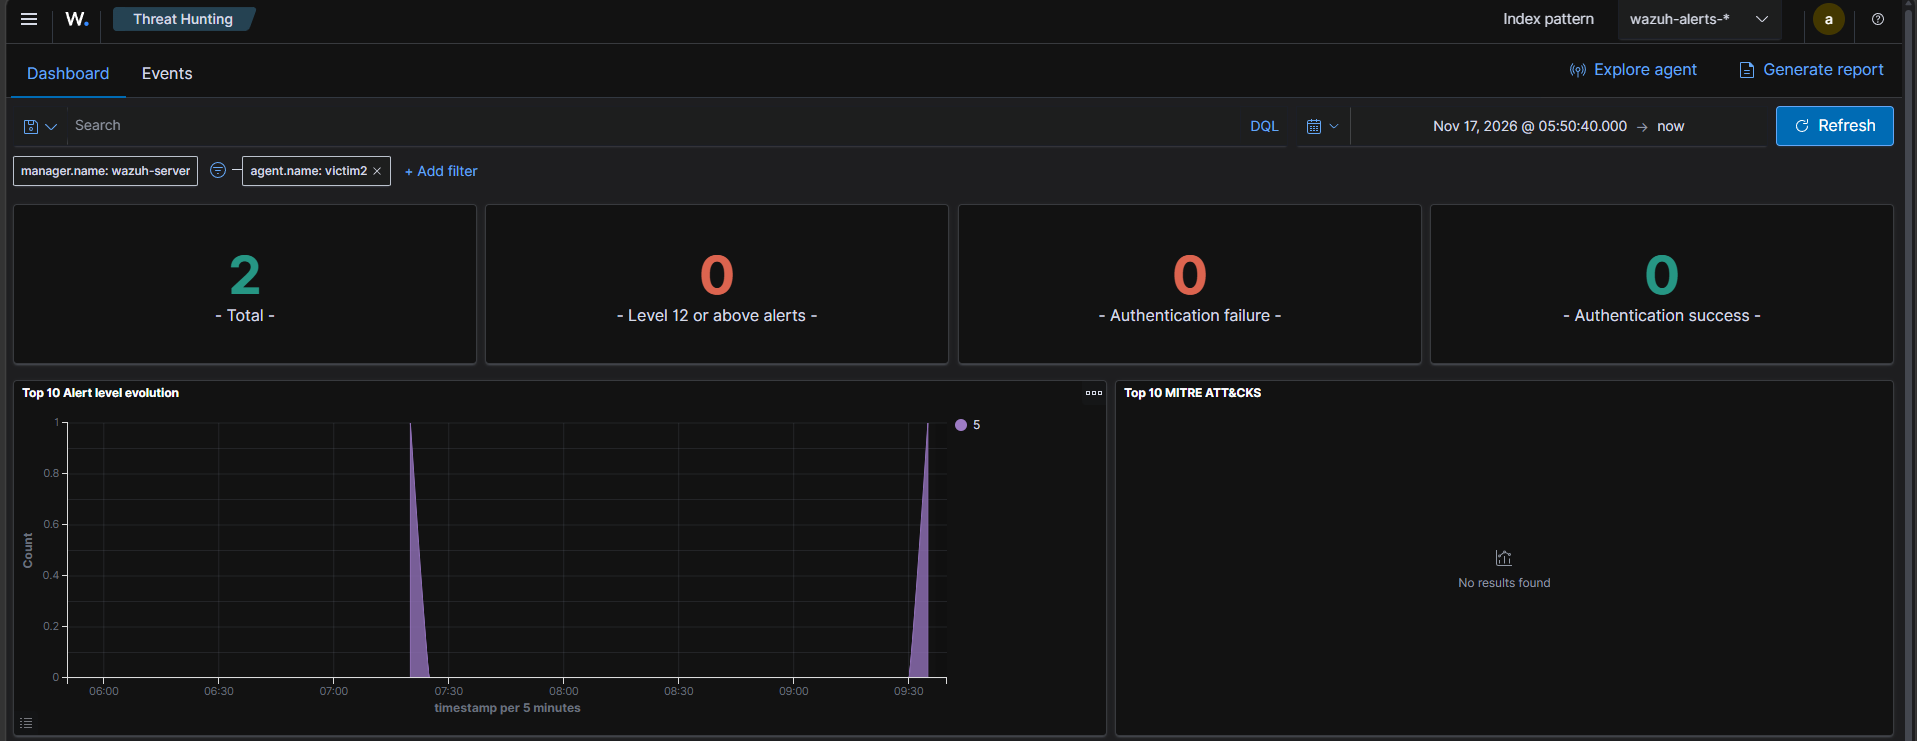
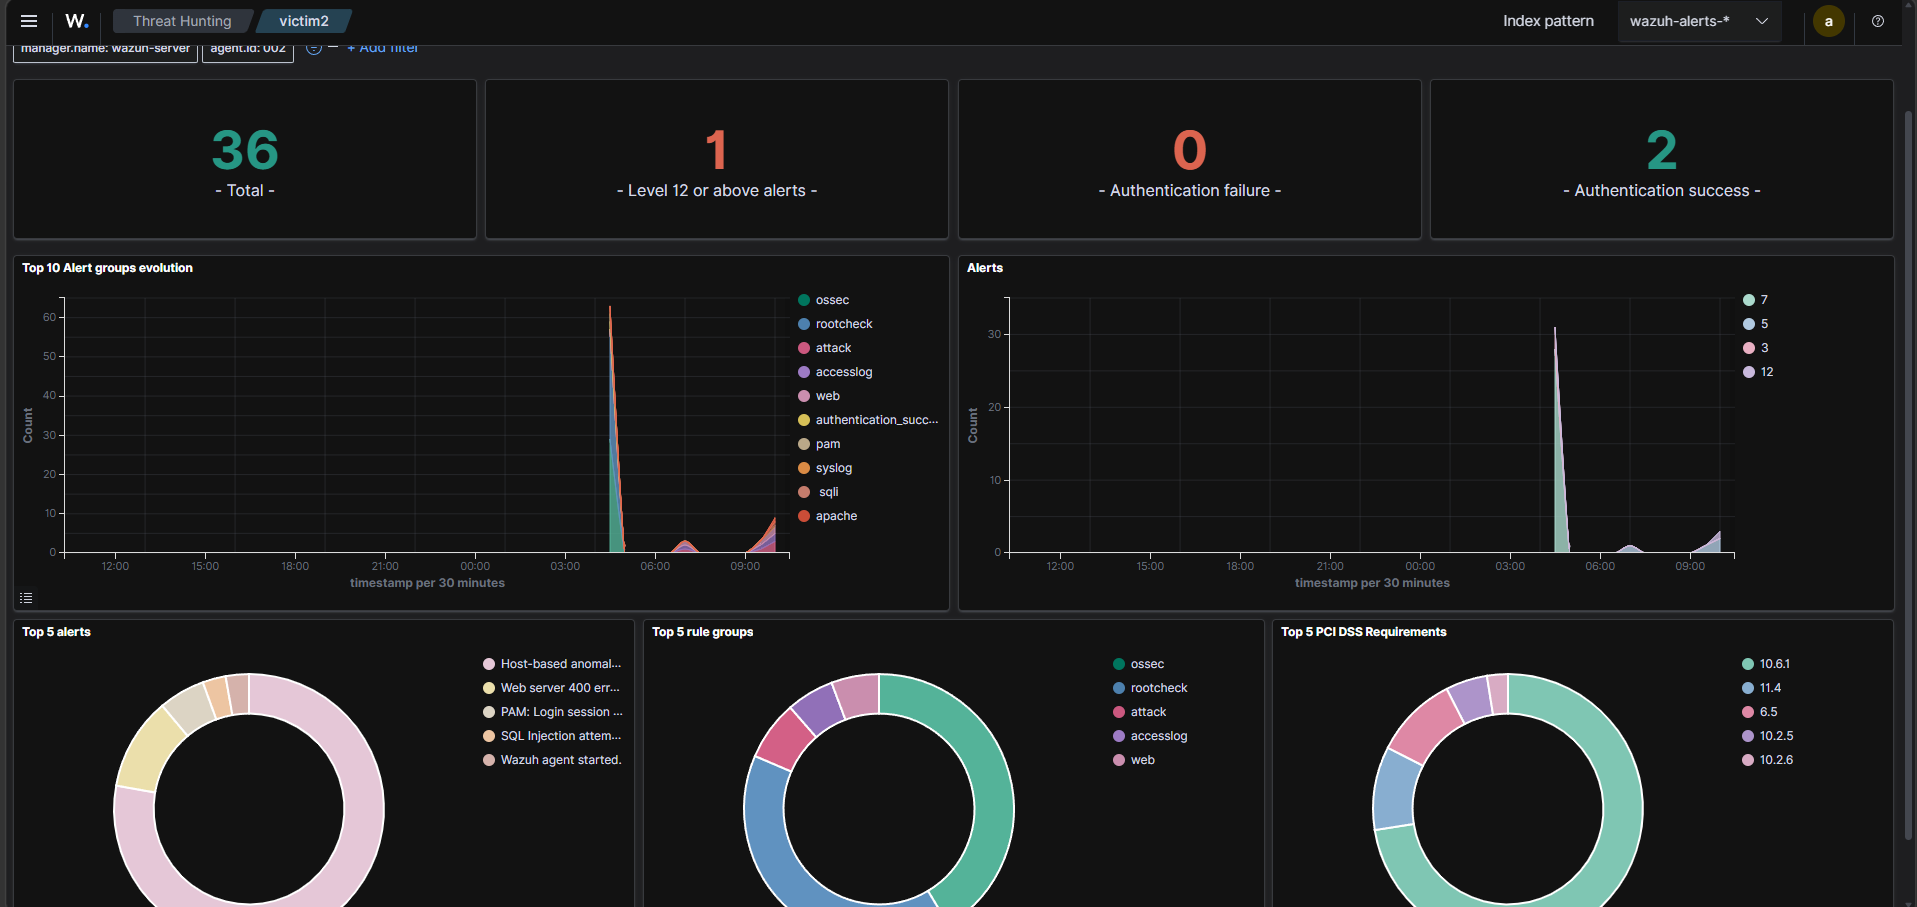
feat: add SQL injection attack detection scenario and Wazuh HIDS evidence

diff --git a/03_Wazuh_SOC/attack-scenarios/scenario_2/02_SQL_Injection_HIDS_Detection.md b/03_Wazuh_SOC/attack-scenarios/scenario_2/02_SQL_Injection_HIDS_Detection.md
@@ -1,18 +1,18 @@
 # Scénario 2 : Attaque Web Applicative (SQL Injection) et Détection HIDS
 
 ![Status](https://img.shields.io/badge/Status-Validé-brightgreen)
-![Severity](https://img.shields.io/badge/Wazuh_Level-5-orange)
+![Severity](https://img.shields.io/badge/Wazuh_Level-12-red)
 ![MITRE](https://img.shields.io/badge/MITRE_ATT%26CK-T1190-blue)
 
 ##  Résumé exécutif
 
 | | |
 |---|---|
-| **Objectif** | Valider la stratégie de Defense-in-Depth : démontrer que lorsqu'une attaque applicative (L7) traverse le pare-feu faute d'inspection de contenu, l'agent HIDS Wazuh installé sur l'hôte prend le relais |
+| **Objectif** | Valider la stratégie de Defense-in-Depth : démontrer que lorsqu'une attaque applicative (L7) traverse le pare-feu faute d'inspection de contenu, l'agent HIDS Wazuh prend le relais — puis affiner la détection générique en règle SQLi dédiée à haute sévérité |
 | **Technique MITRE ATT&CK** | [T1190 – Exploit Public-Facing Application](https://attack.mitre.org/techniques/T1190/) |
 | **Attaquant** | Kali Linux — `10.0.10.30` (Zone LAN) |
 | **Cible** | Serveur Web applicatif — `192.16.10.20` (Zone DMZ), agent Wazuh `victim2` |
-| **Résultat** | Attaque **non bloquée** par le réseau, mais **détectée** par le HIDS (Règle `31101`) |
+| **Résultat** | Attaque **non bloquée** par le réseau, **détectée** par le HIDS, puis **qualifiée et priorisée** par une règle de corrélation custom (`100050`, niveau 12) |
 
 ---
 
@@ -52,14 +52,11 @@ curl -s "http://192.16.10.20/vulnerabilities/sqli/?id=1'+OR+1=1--&Submit=Submit"
 
 **Résultat réseau :** la requête traverse le FortiGate sans être bloquée ni journalisée comme suspecte, confirmant l'absence d'inspection L7.
 
-
 ---
 
-## 4. Chaîne de détection et triage SIEM (Wazuh — HIDS)
+## 4. Détection initiale (HIDS générique)
 
-L'attaque ayant atteint le serveur, le payload malformé provoque une erreur applicative. L'agent Wazuh installé localement (`victim2`) lit les journaux Apache (`access.log` / `error.log`) et remonte l'anomalie au Manager.
-
-**Triage dans Wazuh (`Threat Hunting`) :**
+L'attaque ayant atteint le serveur, le payload malformé provoque une erreur applicative. L'agent Wazuh installé localement (`victim2`) lit les journaux Apache (`access.log` / `error.log`) et remonte une première alerte générique au Manager.
 
 | Champ | Valeur observée |
 |---|---|
@@ -67,9 +64,64 @@ L'attaque ayant atteint le serveur, le payload malformé provoque une erreur app
 | **Règle déclenchée** | `31101` |
 | **Description** | *Web server 400 error code.* |
 | **Niveau de sévérité** | `5` |
-| **Source de la détection** | Journaux applicatifs Apache (HIDS), **pas** le FortiGate |
 
-**Résultat :** le réseau n'a pas bloqué la menace, mais la Défense en Profondeur a fonctionné — l'analyste SOC est alerté d'une requête web malformée (signature probable d'injection) ciblant le serveur DMZ, permettant d'engager une réponse à incident.
+**Limite identifiée :** cette règle native ne distingue pas une tentative d'injection d'une simple erreur applicative bénigne (requête malformée, typo utilisateur, bug front-end...). Elle sert uniquement de signal faible.
+
+
+---
+
+## 5. Affinage de la détection — Règle de corrélation SQLi personnalisée
+
+Pour éliminer ce bruit et qualifier précisément la menace, une règle locale a été écrite sur le Wazuh Manager afin de corréler l'erreur HTTP 400 (`31101`) avec la présence de motifs d'injection SQL dans la requête loggée.
+
+**Fichier :** `/var/ossec/etc/rules/local_rules.xml`
+
+```xml
+<group name="apache,sqli,">
+  <!-- Règle de détection SQLi spécifique -->
+  <rule id="100050" level="12">
+    <if_sid>31101</if_sid>
+    <match>SELECT |UNION |INSERT |UPDATE |DELETE |DROP |' OR|'+OR</match>
+    <description>SQL Injection attempt detected in URL (HTTP 400 Error).</description>
+    <mitre>
+      <id>T1190</id>
+    </mitre>
+    <group>attack,sqli,</group>
+  </rule>
+</group>
+```
+
+**Logique de la règle :**
+- `<if_sid>31101</if_sid>` : la règle ne s'évalue que sur les événements déjà classés comme erreur HTTP 400 (règle parente), évitant tout faux positif sur du trafic normal.
+- `<match>` : recherche de motifs SQLi courants dans l'URL loggée (mots-clés SQL, opérateurs d'évasion `OR`, commentaires `--`).
+- **Niveau 12** (contre 5 pour la règle générique) : classe l'alerte en sévérité haute, visible immédiatement dans le dashboard principal et non noyée dans le bruit des erreurs 400 ordinaires.
+- Tag **MITRE ATT&CK T1190** : enrichit l'alerte pour la cartographie et le reporting.
+
+**Déploiement :**
+```bash
+# Validation de la syntaxe avant redémarrage
+/var/ossec/bin/wazuh-logtest
+
+# Application de la règle
+systemctl restart wazuh-manager
+```
+
+---
+
+## 6. Validation finale (Triage SIEM)
+
+Rejeu de l'attaque après activation de la règle `100050` :
+
+| Champ | Valeur observée |
+|---|---|
+| **Règle déclenchée** | `100050` (dérivée de `31101`) |
+| **Description** | *SQL Injection attempt detected in URL (HTTP 400 Error).* |
+| **Niveau de sévérité** | `12` |
+| **Groupe** | `attack, sqli` |
+| **Tag MITRE** | `T1190` |
+
+**Résultat :** l'alerte générique de niveau 5, auparavant noyée dans le volume d'erreurs HTTP courantes, est désormais remontée comme un événement de sécurité critique et explicitement qualifié d'injection SQL, avec mapping MITRE ATT&CK natif — directement exploitable par l'analyste SOC pour une réponse à incident.
+
 
 ---
 
@@ -78,50 +130,36 @@ L'attaque ayant atteint le serveur, le payload malformé provoque une erreur app
 - [x] Règle FortiGate `LAN_to_DMZ` confirmée sans Security Profiles (aucune inspection L7)
 - [x] Requête SQLi envoyée depuis Kali (`10.0.10.30`) vers `192.16.10.20`
 - [x] Trafic non bloqué au niveau réseau (traversée confirmée)
-- [x] Alerte Niveau 5 visible dans Wazuh (règle `31101`, agent `victim2`)
-- [x] Capture d'écran de l'alerte HIDS
+- [x] Alerte générique Niveau 5 visible dans Wazuh (règle `31101`, agent `victim2`)
+- [x] Règle locale `100050` créée et déployée (`local_rules.xml`)
+- [x] Syntaxe validée via `wazuh-logtest` avant redémarrage
+- [x] Alerte Niveau 12 confirmée après rejeu de l'attaque
+- [x] Capture d'écran de l'alerte qualifiée (règle `100050`)
 
 ---
 
 ##  Enseignements clés (Lessons Learned)
 
 - Une politique de pare-feu sans **Security Profiles** ne protège que contre les menaces de couche 3/4 : elle est aveugle à toute attaque applicative transitant sur un port autorisé.
-- Le **HIDS** (agent Wazuh sur l'hôte) constitue une ligne de défense complémentaire indispensable, capable de détecter ce que le réseau ne voit pas.
-- La règle `31101` (erreur 400) est un indicateur **générique** : elle signale une anomalie de requête, pas spécifiquement une injection SQL. Une règle dédiée affinerait la précision (voir recommandations).
+- Le **HIDS** (agent Wazuh sur l'hôte) constitue une ligne de défense complémentaire indispensable, capable de détecter ce que le réseau ne voit pas — mais une règle générique (`31101`) reste un signal faible, insuffisant pour prioriser une réponse.
+- L'écriture d'une **règle de corrélation custom** (`if_sid` + `match`) transforme un bruit de fond en alerte de sécurité qualifiée et actionnable, sans dépendre d'un équipement réseau supplémentaire.
+- Cette approche illustre une compétence SOC clé : **adapter la détection aux logs réellement disponibles**, plutôt que d'attendre une solution périmétrique idéale.
 
 ---
 
-##  Recommandations
+##  Recommandations restantes
 
-La question « faut-il activer l'IPS du firewall » appelle une réponse en plusieurs couches — l'IPS seul ne suffit pas pour ce type d'attaque, et c'est justement tout l'intérêt pédagogique de ce scénario.
+La détection applicative est désormais opérationnelle côté SIEM. Les axes suivants restent pertinents pour renforcer la défense en profondeur :
 
-### 1. Activer un profil de sécurité L7 sur le FortiGate — nécessaire mais insuffisant seul
-- **IPS (Intrusion Prevention System)** : ajoute un profil IPS à la politique `LAN_to_DMZ`, avec les signatures de la catégorie *Web Application* / *SQL Injection* activées en mode `Block`. Cela peut intercepter des payloads SQLi *connus et signés*, mais un attaquant qui obfusque sa requête (encodage, espaces, commentaires SQL) peut contourner une signature générique.
-- **Limite réelle** : un NGFW avec IPS est pensé pour des exploits réseau et des signatures connues, pas pour une analyse syntaxique fine du paramètre d'une application web. C'est pourquoi FortiGate propose un module distinct pour ce cas précis.
+### 1. Corriger la vulnérabilité à la source (priorité n°1)
+- Utiliser des **requêtes préparées / paramétrées** (prepared statements) côté application.
+- Valider et filtrer les entrées utilisateur côté serveur.
+- Appliquer le principe du moindre privilège sur le compte de base de données utilisé par l'application.
 
-### 2. Déployer un WAF (Web Application Firewall) — la vraie réponse au problème
-- Sur FortiGate, cela correspond au profil **Web Application Firewall** dans Security Profiles, qu'on peut combiner avec l'IPS sur la même politique.
-- Le WAF applique des règles spécifiques aux attaques applicatives (OWASP Top 10 : SQLi, XSS, path traversal...) en analysant la structure des requêtes HTTP (paramètres, en-têtes, body), ce qu'un IPS générique ne fait pas aussi finement.
-- Alternative si pas de FortiWeb/WAF dédié : un reverse proxy avec **ModSecurity** + règles **OWASP CRS** devant le serveur applicatif.
+### 2. Ajouter une couche de blocage réseau (défense en profondeur)
+- **WAF (Web Application Firewall)** sur FortiGate (profil dédié dans Security Profiles) ou via un reverse proxy **ModSecurity + OWASP CRS** devant le serveur applicatif — pour bloquer la requête *avant* qu'elle n'atteigne l'application.
+- **IPS** en complément sur la politique `LAN_to_DMZ` : utile contre des signatures d'exploits réseau connus, mais à ne pas considérer comme suffisant seul face à une injection applicative obfusquée (voir limite documentée au Scénario 3).
 
-### 3. Corriger la vulnérabilité à la source (priorité réelle en environnement de production)
-- Le vrai problème est que le paramètre `id` n'est pas assaini côté application (requêtes SQL non préparées). Aucun contrôle périmétrique ne remplace une correction applicative :
-  - Utiliser des **requêtes préparées / paramétrées** (prepared statements).
-  - Valider et filtrer les entrées utilisateur côté serveur.
-  - Appliquer le principe du moindre privilège sur le compte de base de données utilisé par l'application.
-
-### 4. Affiner la détection côté Wazuh
-- Créer une règle personnalisée dans `local_rules.xml` qui corrèle la règle générique `31101` avec la présence de motifs SQLi dans l'URL loggée (`OR 1=1`, `UNION SELECT`, `--`, `'`), pour distinguer une vraie tentative d'injection d'une simple erreur applicative bénigne.
-- Augmenter la sévérité de cette règle dérivée (niveau 10+) pour qu'elle déclenche une alerte prioritaire plutôt qu'un niveau 5 générique, facilement noyé dans le bruit.
-
-### Synthèse priorisée
-
-| Priorité | Action | Effet |
-|---|---|---|
-| 1 | Corriger le code applicatif (requêtes préparées) | Élimine la vulnérabilité à la racine |
-| 2 | Activer WAF (ou ModSecurity/CRS) sur le chemin HTTP | Bloque la majorité des injections avant l'application |
-| 3 | Activer IPS en complément sur la politique DMZ | Couvre les signatures d'exploits réseau connus |
-| 4 | Règle Wazuh dédiée SQLi | Réduit le bruit et accélère le triage SOC |
 
 ---
 
